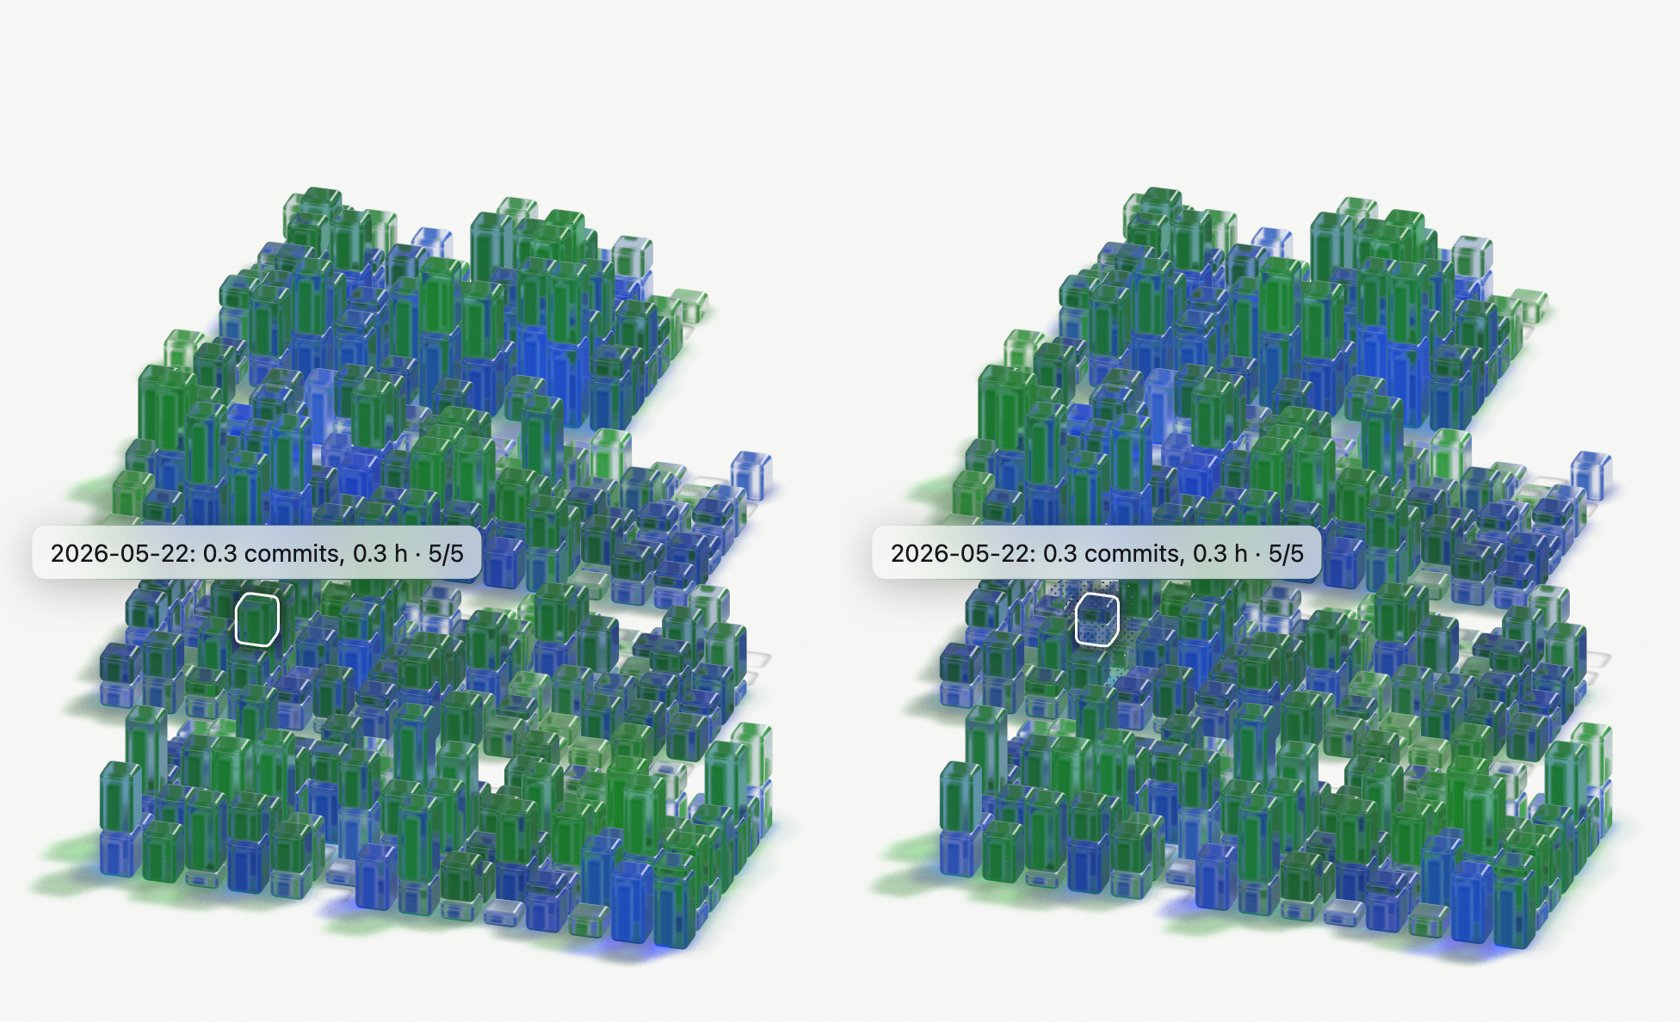
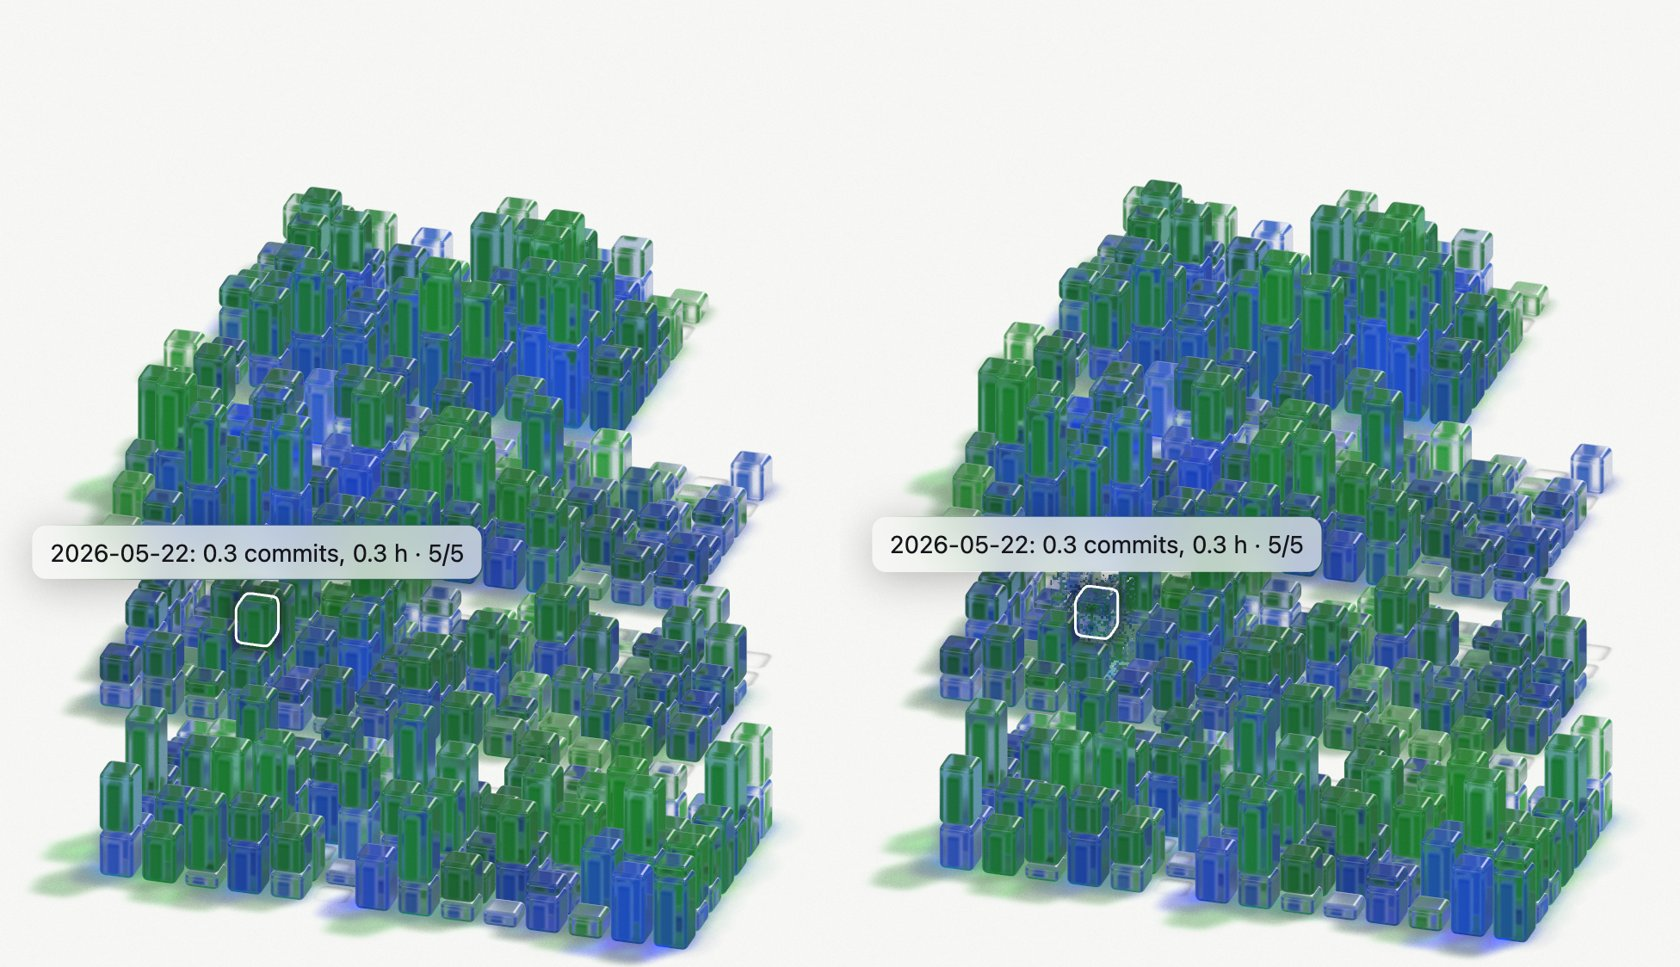
Cutaway: grainy halftone, default strength 0.6; dark glass: neighbours' light only on the edges for every block, less flat glow on lit ones; playground metrics flag

diff --git a/src/graph.ts b/src/graph.ts
@@ -240,6 +240,7 @@ export function mountScene(el: HTMLElement, opts: GraphOptions & { data: GraphDa
         uCutStrength: { value: cutCfg?.strength ?? 0 },
         uCutSeed: { value: 0 },
         uCutDot: { value: 0 },
+        uCutNoise: { value: cutCfg?.noise ?? 0 },
       };
       const cutPatch = (mat: import("three").Material) => {
         if (!cutCfg) return;
@@ -292,8 +293,10 @@ export function mountScene(el: HTMLElement, opts: GraphOptions & { data: GraphDa
       };
       const DIM_FLAT = 0.2;
       const DIM_EDGE = 1.6;
-      const NB_FLAT = 0.05;
+      const NB_FLAT = 0.02;
       const NB_EDGE = 3.2;
+      /** (dark) how far even a lit block's own glow is confined to its edges (0: not at all, 1: as much as a quiet one's): its glass is not a lamp all over, the rod is. */
+      const LIT_FLAT_SHARE = 0.6;
       /** (dark) how much less of what is behind it a quiet day's glass shows (0 is the same as a lit one's). */
       const DIM_SEE = 0.6;
       /** How much light behind a block it takes to light its glass most of the way (the share is `1 - e^-(light behind / this)`). */
@@ -1149,7 +1152,7 @@ void main() {
                 .replace("#include <begin_vertex>", "#include <begin_vertex>\n  vObjN = normal;\n  vDim = aDim;\n  vec2 lv = texelFetch(uLevels, ivec2(int(aBlock + 0.5), 0), 0).rg;\n  float own = max(lv.r, 0.3 * lv.g);\n  vOn = clamp(own, 0.0, 1.0);\n  vLevelEm = max(own, uFloorEm);\n  vLevelEnv = max(own, uFloorEnv);\n  vInc = aInc * lv.g * lv.g * lv.g;\n  vTint = aTint;");
               shader.fragmentShader = shader.fragmentShader
                 .replace("#include <common>", "#include <common>\nvarying float vLevelEm;\nvarying float vLevelEnv;\nvarying float vOn;\nvarying float vDim;\nvarying vec3 vObjN;\nvarying vec3 vInc;\nvarying vec3 vTint;")
-                .replace("#include <emissivemap_fragment>", "#include <emissivemap_fragment>\n  // (right off, the glass glows the same cool grey whatever its source; as soon as there is a light in it, its own colour, darker the dimmer the light: a dimmed block is a tinted, darker one, not a grey one)\n  float offGrey = 1.0 - smoothstep(0.05, 0.6, vOn);\n  totalEmissiveRadiance = mix(totalEmissiveRadiance, vec3(dot(totalEmissiveRadiance, vec3(0.333))) * vec3(0.85, 0.95, 1.15), offGrey) * mix(pow(vLevelEm, 2.0), vLevelEm, offGrey);\n  // (a dim block is not a lit one: its glass does not glow all over, evenly, from the light of the blocks next to it, which would make it a milky, jelly-like cube; the light shows where light shows on glass, as streaks on its rounded edges, and its flat faces stay dark)\n  float edgeK = smoothstep(0.03, 0.4, 1.0 - max(abs(vObjN.x), max(abs(vObjN.y), abs(vObjN.z))));\n  float dimK = max(vDim, 1.0 - smoothstep(0.5, 0.95, vOn));\n  totalEmissiveRadiance *= mix(1.0, " + DIM_FLAT.toFixed(2) + " + " + DIM_EDGE.toFixed(2) + " * edgeK, dimK);\n  vec3 nb = min(vInc * " + NEIGHBOUR_GLOW.toFixed(3) + ", vec3(0.1));\n  nb = max(vec3(0.0), mix(vec3(dot(nb, vec3(0.299, 0.587, 0.114))), nb, " + GLOW_SATURATION.toFixed(2) + "));\n  nb *= mix(vec3(1.0), vTint, smoothstep(0.05, 0.6, vOn) * mix(" + GLOW_TINT_FAINT.toFixed(3) + ", 1.0, smoothstep(0.02, 0.1, max(nb.r, max(nb.g, nb.b)))));\n  nb *= mix(1.0, " + NB_FLAT.toFixed(2) + " + " + NB_EDGE.toFixed(2) + " * edgeK, dimK);\n  totalEmissiveRadiance += nb;")
+                .replace("#include <emissivemap_fragment>", "#include <emissivemap_fragment>\n  // (right off, the glass glows the same cool grey whatever its source; as soon as there is a light in it, its own colour, darker the dimmer the light: a dimmed block is a tinted, darker one, not a grey one)\n  float offGrey = 1.0 - smoothstep(0.05, 0.6, vOn);\n  totalEmissiveRadiance = mix(totalEmissiveRadiance, vec3(dot(totalEmissiveRadiance, vec3(0.333))) * vec3(0.85, 0.95, 1.15), offGrey) * mix(pow(vLevelEm, 2.0), vLevelEm, offGrey);\n  // (a dim block is not a lit one: its glass does not glow all over, evenly, from the light of the blocks next to it, which would make it a milky, jelly-like cube; the light shows where light shows on glass, as streaks on its rounded edges, and its flat faces stay dark)\n  float edgeK = smoothstep(0.03, 0.4, 1.0 - max(abs(vObjN.x), max(abs(vObjN.y), abs(vObjN.z))));\n  float dimK = max(vDim, 1.0 - smoothstep(0.5, 0.95, vOn));\n  totalEmissiveRadiance *= mix(1.0, " + DIM_FLAT.toFixed(2) + " + " + DIM_EDGE.toFixed(2) + " * edgeK, max(dimK, " + LIT_FLAT_SHARE.toFixed(2) + "));\n  vec3 nb = min(vInc * " + NEIGHBOUR_GLOW.toFixed(3) + ", vec3(0.1));\n  nb = max(vec3(0.0), mix(vec3(dot(nb, vec3(0.299, 0.587, 0.114))), nb, " + GLOW_SATURATION.toFixed(2) + "));\n  nb *= mix(vec3(1.0), vTint, smoothstep(0.05, 0.6, vOn) * mix(" + GLOW_TINT_FAINT.toFixed(3) + ", 1.0, smoothstep(0.02, 0.1, max(nb.r, max(nb.g, nb.b)))));\n  nb *= " + NB_FLAT.toFixed(2) + " + " + NB_EDGE.toFixed(2) + " * edgeK;\n  totalEmissiveRadiance += nb;")
                 // (the glass's tint is the light of its rod made visible: with the rod off the glass is clear)
                 .replace("#include <lights_physical_fragment>", "#include <lights_physical_fragment>\n#ifdef USE_TRANSMISSION\n  material.attenuationColor = mix(vec3(1.0), material.attenuationColor, smoothstep(0.12, 0.9, vOn));\n  // (a quiet day's glass does not show the lit ground and the lamps behind it as clearly as a lit one: it is a darker body, not a window onto the glow round it)\n  material.transmission *= 1.0 - " + DIM_SEE.toFixed(2) + " * vDim;\n#endif")
                 .replace("#include <lights_fragment_maps>", "#include <lights_fragment_maps>\n#if defined( RE_IndirectSpecular )\n  radiance *= vLevelEnv;\n#ifdef USE_CLEARCOAT\n  clearcoatRadiance *= vLevelEnv;\n#endif\n#endif\n#if defined( RE_IndirectDiffuse )\n  iblIrradiance *= vLevelEnv;\n#endif");
@@ -1556,6 +1559,7 @@ void main(){
           // (development only: how long a frame takes, the GPU included: `finish` waits for it)
           renderer.getContext().finish();
           frames.push(performance.now() - f0);
+          el.dataset.frameLast = (performance.now() - f0).toFixed(2);
           el.dataset.frameMs = (frames.reduce((x, y) => x + y, 0) / frames.length).toFixed(1);
         }
         if (n < samplesCap) raf = requestAnimationFrame(frame);

diff --git a/src/cutaway.ts b/src/cutaway.ts
@@ -4,13 +4,15 @@
  */
 
 export interface CutawayOptions {
-  /** How much of the days in the way is taken away, 0 to 1 (default 0.8: what is left of them is a screen of dots; 1 is gone). */
+  /** How much of the days in the way is taken away, 0 to 1 (default 0.6: what is left of them is a grainy screen; 1 is gone). */
   strength?: number;
   /** The cell of the halftone the blocks in the way are screened with, in CSS pixels (default 3): they are not simply made transparent but turn into a screen of holes that grow with the fade, so that they read as seen through. `0` gives a fine noise instead. */
   dot?: number;
+  /** How noisy the screen is, 0 (a regular halftone) to 1 (a pure noise at the cell's scale); default 0.75: a grainy gradient. */
+  noise?: number;
 }
 
-export const CUTAWAY_DEFAULTS = { strength: 0.8, dot: 3 } as const;
+export const CUTAWAY_DEFAULTS = { strength: 0.6, dot: 3, noise: 0.75 } as const;
 /** Eased with this time constant, in ms. */
 export const CUTAWAY_TAU_MS = 90;
 /** The half-width of a day's block, and how far the rays that look for what is in the way are drawn in from the selected day's edge (a neighbour that only brushes its silhouette is not in the way). */
@@ -18,12 +20,13 @@ export const BLOCK_HALF = 0.46;
 export const SAMPLE_INSET = 0.22;
 
 /** Resolves user options: `false` is off, `undefined`/`true` the defaults. */
-export function resolveCutaway(o: CutawayOptions | boolean | undefined): { strength: number; dot: number } | null {
+export function resolveCutaway(o: CutawayOptions | boolean | undefined): { strength: number; dot: number; noise: number } | null {
   if (o === false) return null;
   const c = typeof o === "object" ? o : {};
   const strength = Math.min(1, Math.max(0, c.strength ?? CUTAWAY_DEFAULTS.strength));
   const dot = Math.min(32, Math.max(0, c.dot ?? CUTAWAY_DEFAULTS.dot));
-  return strength > 0 ? { strength, dot } : null;
+  const noise = Math.min(1, Math.max(0, c.noise ?? CUTAWAY_DEFAULTS.noise));
+  return strength > 0 ? { strength, dot, noise } : null;
 }
 
 export interface Box {
@@ -117,7 +120,7 @@ export const CUT_VERTEX = "  vCutCell = aCell;";
  * GLSL, fragment stage: the day's fade is read from a texture, one texel a day. The fragment is dropped where a halftone screen (a 45-degree grid of dots, `uCutDot` pixels a cell) is below the fade: the holes are dots at first, then
  * merge into a mesh, and what is left of the block as it goes is dots of it; the camera's sub-pixel jitter, over the accumulated samples, smooths the edges of the dots. With no dot (`uCutDot` 0), a noise whose threshold is spread evenly over the samples.
  */
-export const CUT_DECLS_FRAGMENT = "varying float vCutCell;\nuniform highp sampler2D uCutFade;\nuniform float uCutStrength;\nuniform float uCutSeed;\nuniform float uCutDot;";
+export const CUT_DECLS_FRAGMENT = "varying float vCutCell;\nuniform highp sampler2D uCutFade;\nuniform float uCutStrength;\nuniform float uCutSeed;\nuniform float uCutDot;\nuniform float uCutNoise;";
 export const CUT_FRAGMENT = `
   {
     float cutF = texelFetch(uCutFade, ivec2(int(vCutCell + 0.5), 0), 0).r * uCutStrength;
@@ -125,7 +128,11 @@ export const CUT_FRAGMENT = `
       float th;
       if (uCutDot > 0.5) {
         vec2 q = vec2(gl_FragCoord.x + gl_FragCoord.y, gl_FragCoord.x - gl_FragCoord.y) * (6.2831853 / (uCutDot * 1.4142136));
-        th = 0.5 + 0.25 * (cos(q.x) + cos(q.y));
+        float screen = 0.5 + 0.25 * (cos(q.x) + cos(q.y));
+        // (the grain: a hash of the cell the pixel is in, half a dot wide, fixed from one sample to the next, so that it stays a grain; mixed with the regular screen, which gives the fade its body)
+        vec2 gc = floor(gl_FragCoord.xy / max(1.0, uCutDot * 0.5));
+        float grain = fract(sin(dot(gc, vec2(12.9898, 78.233))) * 43758.5453);
+        th = mix(screen, grain, uCutNoise);
       } else {
         th = fract(fract(52.9829189 * fract(dot(gl_FragCoord.xy, vec2(0.06711056, 0.00583715)))) + uCutSeed);
       }

diff --git a/playground/main.ts b/playground/main.ts
@@ -83,7 +83,8 @@ const options = (): GraphOptions => ({
   grain: Number($<HTMLInputElement>("grain").value),
   overlay: $<HTMLSelectElement>("outline").value === "off" ? false : { card: false, outlineColor: $<HTMLSelectElement>("outline").value as "auto" | "cased" | "text" },
   colors: PALETTES[$<HTMLSelectElement>("palette").value],
-  cutaway: $<HTMLInputElement>("cutaway").checked ? { strength: Number($<HTMLInputElement>("cut-strength").value), dot: Number($<HTMLInputElement>("cut-dot").value) } : false,
+  cutaway: $<HTMLInputElement>("cutaway").checked ? { strength: Number($<HTMLInputElement>("cut-strength").value), dot: Number($<HTMLInputElement>("cut-dot").value), noise: Number($<HTMLInputElement>("cut-noise").value) } : false,
+  debug: location.search.includes("metrics") ? { metrics: true } : undefined,
   rodColor: $<HTMLInputElement>("lights").checked ? lights : undefined,
   background: (theme) => getComputedStyle(document.body).backgroundColor || (theme === "dark" ? "#0b0b0e" : "#f6f6f4"),
   onLit: (lit) => (status.textContent = lit ? "lit" : "starting up…"),
@@ -112,7 +113,7 @@ const applyTheme = () => {
 
 mount();
 $("theme").addEventListener("change", applyTheme);
-for (const id of ["strips", "sound", "lite", "grain", "lights", "outline", "palette", "cutaway", "cut-dot", "cut-strength"]) $(id).addEventListener("change", mount);
+for (const id of ["strips", "sound", "lite", "grain", "lights", "outline", "palette", "cutaway", "cut-dot", "cut-noise", "cut-strength"]) $(id).addEventListener("change", mount);
 $("again").addEventListener("click", () => {
   seed++;
   graph?.update(makeData());

diff --git a/src/types.ts b/src/types.ts
@@ -126,7 +126,7 @@ export interface GraphOptions {
   overlay?: boolean | OverlayOptions;
   /**
    * The cutaway (default on): while a day is selected, the days that stand in its way (those that hide it from the camera) fade away, whole and eased, so it can be seen through the days piled up in front. `strength` is the share taken away
-   * (0 to 1, default 0.8: what is left of them is a screen of dots, 1 is gone). `dot` is the cell of the halftone they are screened with, in CSS px (default 3; `0` for a fine noise). `false` turns it off. Costs nothing while nothing is selected.
+   * (0 to 1, default 0.6: what is left of them is a grainy screen, 1 is gone). `dot` is the cell of the halftone they are screened with, in CSS px (default 3; `0` for a fine noise), `noise` how grainy that screen is (0 regular, 1 pure grain; default 0.75). `false` turns it off. Costs nothing while nothing is selected.
    */
   cutaway?: boolean | CutawayOptions;
   /** The highest pixel ratio the picture is rendered at (default 2; a `lite` device always gets 1). */

diff --git a/playground/index.html b/playground/index.html
@@ -35,7 +35,8 @@
         <label><input type="checkbox" id="lights" /> String of lights (rodColor)</label>
         <label><input type="checkbox" id="cutaway" checked /> Cutaway (click a stack to step through it)</label>
         <label>Dot <input type="range" id="cut-dot" min="0" max="16" step="0.5" value="3" /></label>
-        <label>Strength <input type="range" id="cut-strength" min="0" max="1" step="0.02" value="0.8" /></label>
+        <label>Strength <input type="range" id="cut-strength" min="0" max="1" step="0.02" value="0.6" /></label>
+        <label>Grain <input type="range" id="cut-noise" min="0" max="1" step="0.05" value="0.75" /></label>
         <label>Gaps <select id="gaps"><option value="random">random</option><option value="none">none</option><option value="patches">patches</option><option value="sparse">sparse</option></select></label>
         <button id="again">New data</button>
       </div>

diff --git a/src/cutaway.test.ts b/src/cutaway.test.ts
@@ -78,9 +78,10 @@ describe("resolveCutaway", () => {
     expect(resolveCutaway(true)).toEqual(CUTAWAY_DEFAULTS);
     expect(resolveCutaway(false)).toBeNull();
     expect(resolveCutaway({ strength: 0 })).toBeNull();
-    expect(resolveCutaway({ strength: 3 })).toEqual({ strength: 1, dot: CUTAWAY_DEFAULTS.dot });
-    expect(resolveCutaway({ dot: 0 })).toEqual({ strength: CUTAWAY_DEFAULTS.strength, dot: 0 });
+    expect(resolveCutaway({ strength: 3 })).toEqual({ strength: 1, dot: CUTAWAY_DEFAULTS.dot, noise: CUTAWAY_DEFAULTS.noise });
+    expect(resolveCutaway({ dot: 0 })).toEqual({ strength: CUTAWAY_DEFAULTS.strength, dot: 0, noise: CUTAWAY_DEFAULTS.noise });
     expect(resolveCutaway({ dot: 99 })!.dot).toBe(32);
+    expect(resolveCutaway({ noise: 5 })!.noise).toBe(1);
   });
 });
 

diff --git a/README.md b/README.md
@@ -117,7 +117,7 @@ interface GraphLayer {
 | `overlay` | off | `true` or `{ outline?, card?, locale? }`: the selected day's outline and a day card, drawn over the graph. See [Overlay](#overlay). |
 | `label` | "Activity graph, one column a day. …" | The accessible name. |
 | `templatesUrl` | embedded | Where to fetch `caustic-templates.png` from, instead of the embedded data URI. |
-| `cutaway` | `true` | `false`, or `{ strength?, dot? }`. While a day is selected, the days that stand in its way (that hide it from the camera) are screened away, whole, in both themes, so a day behind taller ones can be seen. `strength` is the share taken away (`0`–`1`, default `0.8`: a screen of dots is left; `1` is gone), `dot` the halftone cell in CSS px (default `3`; `0` for a fine noise). See [Cutaway](#cutaway). |
+| `cutaway` | `true` | `false`, or `{ strength?, dot?, noise? }`. While a day is selected, the days that stand in its way (that hide it from the camera) are screened away, whole, in both themes, so a day behind taller ones can be seen. `strength` is the share taken away (`0`–`1`, default `0.6`: a grainy screen is left; `1` is gone), `dot` the halftone cell in CSS px (default `3`; `0` for a fine noise), `noise` how grainy the screen is (`0` a regular halftone, `1` pure grain; default `0.75`). See [Cutaway](#cutaway). |
 | `maxPixelRatio` | `2` | The highest pixel ratio rendered (`lite` always renders at 1). |
 | `maxPixels` | `8_000_000` | The most pixels rendered; a larger container is rendered at a lower ratio. |
 | `debug` | | `{ metrics?, wireframe?, neonHold? }`: development helpers (`data-*` timings on the container, the glass as a cage, the picture held half on). |
